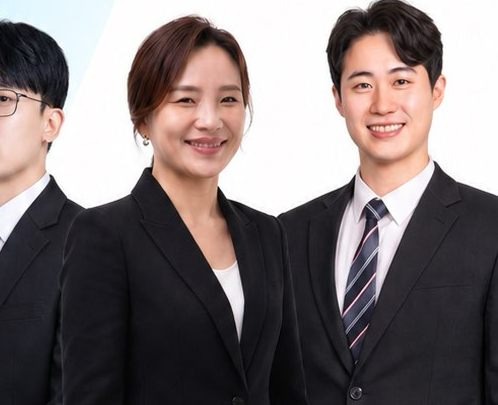
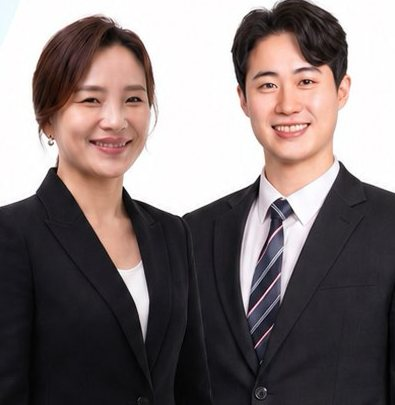
Fix 연사 사진: 좌측 잘림 제거, 2인(홍승희/강인수)만 깔끔히 표시
- 마스크 fade가 좌측 인물 머리 일부를 어색하게 잘라 보여 사용자 지적
- 포스터에서 가운데/우측 두 사람만 재추출 (395x405, 23KB)
- CSS mask-image 제거, max-width 360px로 축소
- 김병준 대표 본인 프로필 사진을 별도 받으면 합성하도록 코드 주석에 명시

diff --git a/index.html b/index.html
@@ -213,19 +213,17 @@
   .slot-body p { margin: 0; color: var(--gray-500); font-size: 14px; }
 
   /* ───────── 연사 ───────── */
-  /* 강사 3인 그룹 사진 — 포스터에서 추출. 좌측 인물이 원본 디자인 상 텍스트와
-     매우 가까이 붙어있어 깔끔히 잘라내기 어려워, 좌측을 마스크로 fade-out 처리해
-     의도된 cropping처럼 보이게 함. (2026-05-06) */
+  /* 연사 사진 — 원본 포스터에서 추출. 좌측 인물(김병준 대표)은 포스터 디자인상
+     텍스트와 너무 가까이 붙어 깔끔히 잘라낼 수 없어 일단 제외. 본인 프로필 사진을
+     별도 받으면 좌측에 합성 예정. 현재는 홍승희 대표 + 강인수 매니저 2인. (2026-05-06) */
   .speakers-photo {
     display: block;
     width: 100%;
-    max-width: 480px;
+    max-width: 360px;
     height: auto;
     margin: 0 auto 28px;
     border-radius: 16px;
     box-shadow: 0 10px 28px rgba(0,0,0,.10);
-    -webkit-mask-image: linear-gradient(to right, transparent 0%, #000 11%, #000 100%);
-            mask-image: linear-gradient(to right, transparent 0%, #000 11%, #000 100%);
   }
 
   .speakers { display: grid; grid-template-columns: 1fr; gap: 14px; }
@@ -688,11 +686,12 @@
     <h2 class="section-title">연사 소개</h2>
     <p class="section-lead">정책자금 · 수출 · 글로벌 B2B 각 분야 최고 실무 전문가들이 직접 강의합니다.</p>
 
-    <!-- 강사 3인 그룹 사진. 신뢰감/실재감 부여. lazy로 첫 화면 부담 없음 -->
+    <!-- 연사 사진 (홍승희 대표, 강인수 매니저). 김병준 대표 본인 사진은
+         별도 받는 대로 합성 예정. 신뢰감/실재감 부여, lazy로 첫 화면 부담 없음 -->
     <img class="speakers-photo"
          src="speakers-group.jpg"
-         alt="2026 충청권 수출 전략 세미나 강사진 — 김병준 대표, 홍승희 대표, 강인수 매니저"
-         width="498" height="405"
+         alt="연사진 — 홍승희 대표(루아솔루션스), 강인수 매니저(알리바바닷컴)"
+         width="395" height="405"
          loading="lazy" />
 
     <div class="speakers">